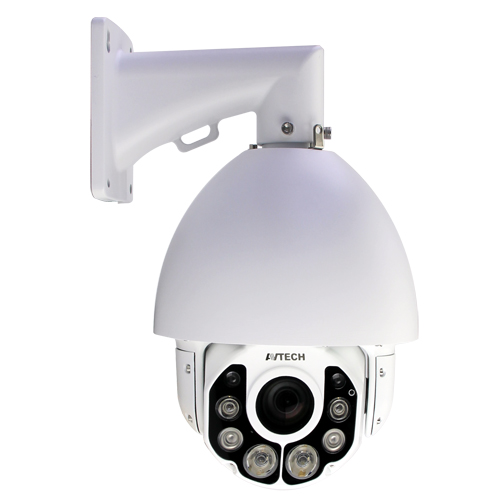
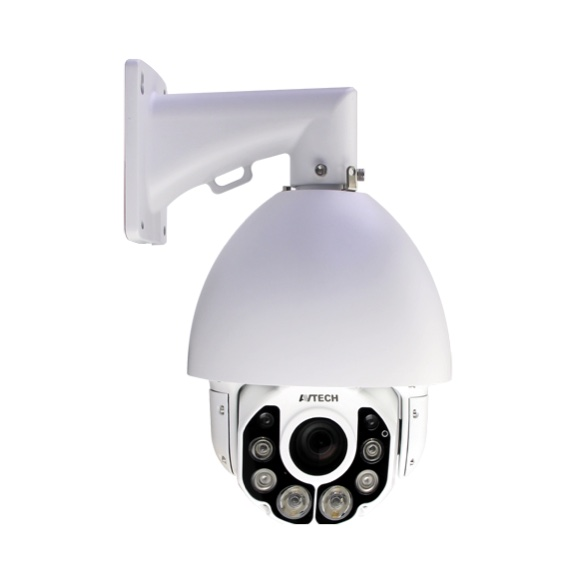
Remove broken and copied product photos; clean up the rest
- Remove 23 photos: 16 copied from gctlsecurity.com (some with GCTL's
  watermark or VARITO branding, some tiny and blotchy), 4 with scene or
  dark/grey backgrounds, and 3 poor cut-outs (jagged edges, cropped
  reflection, blurry). Those products show their line-art icon.
- Re-process the 18 good manufacturer photos: pure white background,
  trimmed and centred in the same square with even margins, saved as
  JPEG (3.8 MB -> 0.7 MB)
- Featured: Chubbsafes Executive fire safe and Virdi AC-2200 replace the
  vault door and uFace800, whose photos were removed
- In-stock rail shows only products with photos
- Card image boxes are a fixed 4:3 height so photo and icon cards line up

Changed region(s): [[0.18, 0.03, 0.84, 0.99]]

diff --git a/index.html b/index.html
@@ -142,7 +142,7 @@ a.eyebrow:hover{border-color:var(--gold-600);background:#F8EBC4}
 .card{scroll-snap-align:start;border:1px solid var(--line);border-radius:6px;background:var(--bg);display:flex;flex-direction:column;overflow:hidden;transition:border-color .15s}
 .card:hover{border-color:var(--gold-600);box-shadow:inset 0 -3px 0 var(--gold)}
 .card .ph{aspect-ratio:4/3;background:var(--surface);display:grid;place-items:center;color:var(--blue);border-bottom:1px solid var(--line);position:relative}
-.card .ph svg{width:46%}
+.card .ph svg{width:34%}
 .stock{position:absolute;top:10px;left:10px;font-size:.75rem;font-weight:650;background:var(--gold);color:#0A2463;padding:3px 8px;border-radius:3px}
 .card .body{padding:16px 16px 18px;display:flex;flex-direction:column;gap:4px;flex:1}
 .card h4{margin:2px 0 0;font-size:1.02rem;font-weight:700;line-height:1.25}
@@ -167,7 +167,7 @@ a.eyebrow:hover{border-color:var(--gold-600);background:#F8EBC4}
 .catcell ul{list-style:none;margin:0;padding:0;color:var(--muted);font-size:.9rem;line-height:1.7}
 .also{margin-top:22px;color:var(--muted);font-size:.95rem}
 .also b{color:var(--head)}
-.card .ph img{width:100%;height:100%;object-fit:contain;padding:12px;background:#fff}
+.card .ph img{position:absolute;inset:0;width:100%;height:100%;object-fit:contain;padding:12px;background:#fff}
 .more [hidden],.more button[hidden]{display:none}
 .more{display:flex;justify-content:center;margin-top:28px}
 .catcell.key{background:var(--blue-100)}
@@ -602,33 +602,33 @@ footer a:hover{text-decoration:underline}
 
     <div class="showcase">
       <article class="feature feature-lg">
-        <div class="ph"><img src="images/products/gunnebo-centurion-dd.webp" alt="Gunnebo Centurion LW-DD vault door" loading="lazy"></div>
+        <div class="ph"><img src="images/products/chubbsafes-executive.jpg" alt="Chubbsafes Executive fireproof safe" loading="lazy"></div>
         <div class="body">
           <span class="cat">Safehouse</span>
-          <h3>Centurion LW-DD vault door</h3>
-          <p>Gunnebo high-security vault door for bank strong rooms, data rooms and residential safe rooms. Supplied with frame and installation.</p>
+          <h3>Chubbsafes Executive fireproof safe</h3>
+          <p>Certified fire safe for paper documents, valuables and data media in offices, bank branches and homes. Supplied and installed by our own team.</p>
           <dl class="specs">
-            <div><dt>Fire rating</dt><dd>120 min</dd></div>
-            <div><dt>Security grade</dt><dd>V&ndash;VI</dd></div>
-            <div><dt>Certification</dt><dd>EN 1143-1</dd></div>
+            <div><dt>Fire rating</dt><dd>60 min</dd></div>
+            <div><dt>Protects</dt><dd>Paper and data</dd></div>
+            <div><dt>Availability</dt><dd>In stock</dd></div>
           </dl>
           <!-- TODO: placeholder sales number in the three "Call for price" links below — replace with the real number -->
           <a class="price" href="tel:+8801XXXXXXXXX"><svg aria-hidden="true"><use href="#g-phone"/></svg>Call for price</a>
-          <button class="btn btn-blue js-quote" data-product="Gunnebo Centurion LW-DD vault door">Request a quote</button>
+          <button class="btn btn-blue js-quote" data-product="Chubbsafes Executive fireproof safe">Request a quote</button>
         </div>
       </article>
       <article class="feature feature-sm">
-        <div class="ph"><img src="images/products/zkteco-uface800.jpg" alt="ZKTeco uFace800 facial access terminal" loading="lazy"></div>
+        <div class="ph"><img src="images/products/virdi-ac2200.jpg" alt="Virdi AC-2200 fingerprint access terminal" loading="lazy"></div>
         <div class="body">
           <span class="cat">Access control</span>
-          <h3>ZKTeco uFace800</h3>
-          <p>Face, fingerprint and card terminal that handles door access and staff attendance on one device.</p>
+          <h3>Virdi AC-2200</h3>
+          <p>Fingerprint and card terminal that handles door access and staff attendance on one device.</p>
           <a class="price" href="tel:+8801XXXXXXXXX"><svg aria-hidden="true"><use href="#g-phone"/></svg>Call for price</a>
-          <button class="btn btn-line js-quote" data-product="ZKTeco uFace800">Request a quote</button>
+          <button class="btn btn-line js-quote" data-product="Virdi AC-2200">Request a quote</button>
         </div>
       </article>
       <article class="feature feature-sm">
-        <div class="ph"><img src="images/products/garrett-pd6500i.png" alt="Garrett PD 6500i walk-through metal detector" loading="lazy"></div>
+        <div class="ph"><img src="images/products/garrett-pd6500i.jpg" alt="Garrett PD 6500i walk-through metal detector" loading="lazy"></div>
         <div class="body">
           <span class="cat">Entrance security</span>
           <h3>Garrett PD 6500i</h3>
@@ -829,19 +829,16 @@ footer a:hover{text-decoration:underline}
   // Descriptions are original. To add a photo, set img to a data: URI or a file path on your own host.
   // [name, brand, category, glyph, description, inStock, img]
   // Safehouse items were originally fictional "Next Shield" branded SKUs with no real image;
-  // swapped for genuine Chubbsafes/Gunnebo products with matching specs (fire rating etc.) so
-  // there's a real manufacturer photo for every row. Swap for Next Shield's own installed work
-  // (photos, brand names) once available.
-  // Image sourcing notes (review before launch):
-  // - Files prefixed "gctl-fallback-" were pulled from gctlsecurity.com because no matching
-  //   product/SKU could be confirmed on the actual manufacturer's own site (either the model
-  //   code doesn't exist there, or the manufacturer has discontinued/delisted it). Replace with
-  //   licensed/manufacturer-confirmed photos before launch, or if flagged for copyright.
+  // swapped for genuine Chubbsafes/Gunnebo products with matching specs (fire rating etc.).
+  // Swap for Next Shield's own installed work (photos, brand names) once available.
+  // Image notes:
+  // - Every photo in images/products is a manufacturer studio shot, cleaned to a pure white
+  //   background and re-framed to the same square with even margins. Add new photos the same way.
+  // - Rows without a 7th field show their line-art glyph. Photos copied from gctlsecurity.com
+  //   (some carried GCTL's watermark), scene/dark-background shots and low-quality cut-outs were
+  //   removed; add manufacturer or Next Shield photos for those rows when available.
   // - VF-30 (Anviz): manufacturer only lists a "VF30 Pro" successor now; photo is of that.
-  // - T60 (Anviz): photo is a lifestyle/install shot from the official T60 Pro flyer, not a studio cutout.
   // - DS-2CE16D0T-IR (Hikvision): manufacturer site now only lists the "-IR(C)" variant; used that photo.
-  // - Addressable 4-loop fire alarm panel (Bosch): FPA-5000 is modular (no single boxed "4-loop" SKU);
-  //   photo is of the MPC-1300-C panel controller module, the main visible unit of that panel family.
   // - UB700 (UNIQSCAN): our spec says "24-zone" but the manufacturer's current page describes this
   //   model as 33-zone — verify the correct zone count before publishing.
   const P = [
@@ -854,46 +851,46 @@ footer a:hover{text-decoration:underline}
     ["Label deactivator pad","NSE systems","retail","deactivator","Deactivates labels at checkout so paid items pass the gate without an alarm.",1],
     ["Hard tag detacher","NSE systems","retail","detacher","Releases hard tags in seconds at the counter, without damaging the garment.",1],
     // Access control & time attendance
-    ["uFace800 facial access terminal","ZKTeco","access","face","Face, fingerprint and card entry with built-in attendance logging.",1,"images/products/zkteco-uface800.jpg"],
-    ["uFace302 biometric attendance terminal","ZKTeco","access","face","Multi-biometric terminal for staff attendance and single-door control.",1,"images/products/zkteco-uface302.jpg"],
+    ["uFace800 facial access terminal","ZKTeco","access","face","Face, fingerprint and card entry with built-in attendance logging.",1],
+    ["uFace302 biometric attendance terminal","ZKTeco","access","face","Multi-biometric terminal for staff attendance and single-door control.",1],
     ["AC-2200 fingerprint access terminal","Virdi","access","finger","Fingerprint and card reader for offices that need access and attendance together.",1,"images/products/virdi-ac2200.jpg"],
-    ["SR-100FP fingerprint slave reader","Virdi","access","reader","Secondary reader that adds fingerprint checks on the exit side of a door.",0,"images/products/virdi-sr100fp.png"],
-    ["FR1200 fingerprint and RFID reader","Granding","access","reader","Weatherproof slave reader for outdoor gates and anti-passback setups.",1,"images/products/gctl-fallback-granding-fr1200.jpg"],
-    ["VF-30 fingerprint and RFID terminal","Anviz","access","finger","Compact fingerprint and card terminal for small offices and shops.",1,"images/products/anviz-vf30.png"],
-    ["T60 fingerprint and RFID controller","Anviz","access","finger","Slim, door-frame-mounted reader for glass and narrow doors.",0,"images/products/anviz-t60.jpg"],
-    ["eNBioAccess-T3 attendance terminal","Nitgen","access","finger","Fingerprint attendance terminal with network reporting.",0,"images/products/gctl-fallback-nitgen-enbioaccess-t3.jpg"],
-    ["BioMini USB fingerprint scanner","Suprema","access","usb","Desktop scanner for enrolling staff fingerprints at a PC.",1,"images/products/gctl-fallback-suprema-biomini.jpg"],
-    ["KR100E RFID external reader","ZKTeco","access","reader","Card reader for adding card entry to an existing controller.",1,"images/products/zkteco-kr100e.png"],
+    ["SR-100FP fingerprint slave reader","Virdi","access","reader","Secondary reader that adds fingerprint checks on the exit side of a door.",0],
+    ["FR1200 fingerprint and RFID reader","Granding","access","reader","Weatherproof slave reader for outdoor gates and anti-passback setups.",1],
+    ["VF-30 fingerprint and RFID terminal","Anviz","access","finger","Compact fingerprint and card terminal for small offices and shops.",1,"images/products/anviz-vf30.jpg"],
+    ["T60 fingerprint and RFID controller","Anviz","access","finger","Slim, door-frame-mounted reader for glass and narrow doors.",0],
+    ["eNBioAccess-T3 attendance terminal","Nitgen","access","finger","Fingerprint attendance terminal with network reporting.",0],
+    ["BioMini USB fingerprint scanner","Suprema","access","usb","Desktop scanner for enrolling staff fingerprints at a PC.",1],
+    ["KR100E RFID external reader","ZKTeco","access","reader","Card reader for adding card entry to an existing controller.",1,"images/products/zkteco-kr100e.jpg"],
     // CCTV
     ["AVZ592 2MP 20× PTZ camera","AVTECH","cctv","ptz","Pan, tilt and 20× zoom camera for car parks, yards and large lobbies.",0,"images/products/avtech-avz592.jpg"],
     ["AVH308EA 8-channel HD recorder","AVTECH","cctv","nvr","Records and plays back up to eight HD cameras from one unit.",1,"images/products/avtech-avh308ea.jpg"],
     ["DS-2CE16D0T-IR 2MP bullet camera","Hikvision","cctv","bullet","Day-night 1080p bullet camera with infrared for dark areas.",1,"images/products/hikvision-ds2ce16d0tir.jpg"],
-    ["DS-2CE16D5T-IT5 2MP IR bullet camera","Hikvision","cctv","bullet","Long-range infrared bullet camera for perimeters and boundary walls.",1,"images/products/gctl-fallback-hikvision-ds2ce16d5t-it5.jpg"],
-    ["DS-2CE16D5T-AVFIT3 varifocal bullet camera","Hikvision","cctv","bullet","Adjustable zoom lens so one camera can cover a wide or narrow field.",0,"images/products/gctl-fallback-hikvision-ds2ce16d5t-avfit3.jpg"],
-    ["DS-2AE4123TI-D IR PTZ dome","Hikvision","cctv","ptz","Compact PTZ dome with infrared for indoor and covered outdoor areas.",0,"images/products/gctl-fallback-hikvision-ds2ae4123ti-d.jpg"],
-    ["Home and shop CCTV kit","Varito","cctv","bullet","Ready-to-install camera set for homes and small retail shops.",1,"images/products/gctl-fallback-varito-cctv-home-shop-kit.jpg"],
+    ["DS-2CE16D5T-IT5 2MP IR bullet camera","Hikvision","cctv","bullet","Long-range infrared bullet camera for perimeters and boundary walls.",1],
+    ["DS-2CE16D5T-AVFIT3 varifocal bullet camera","Hikvision","cctv","bullet","Adjustable zoom lens so one camera can cover a wide or narrow field.",0],
+    ["DS-2AE4123TI-D IR PTZ dome","Hikvision","cctv","ptz","Compact PTZ dome with infrared for indoor and covered outdoor areas.",0],
+    ["Home and shop CCTV kit","Varito","cctv","bullet","Ready-to-install camera set for homes and small retail shops.",1],
     // Entrance security
-    ["PD 6500i 33-zone walk-through detector","Garrett","entrance","arch","Walk-through detector that shows exactly which zone detected metal.",1,"images/products/garrett-pd6500i.png"],
-    ["UB800 33-zone walk-through detector","UNIQSCAN","entrance","arch","High-zone archway detector for airports, courts and embassies.",0,"images/products/gctl-fallback-uniqscan-ub800.jpg"],
+    ["PD 6500i 33-zone walk-through detector","Garrett","entrance","arch","Walk-through detector that shows exactly which zone detected metal.",1,"images/products/garrett-pd6500i.jpg"],
+    ["UB800 33-zone walk-through detector","UNIQSCAN","entrance","arch","High-zone archway detector for airports, courts and embassies.",0],
     ["UB700 24-zone walk-through detector","UNIQSCAN","entrance","arch","24-zone archway for corporate lobbies and event entrances.",1,"images/products/uniqscan-ub700.jpg"],
     ["UB600 18-zone walk-through detector","UNIQSCAN","entrance","arch","18-zone archway for factories, schools and hotels.",1,"images/products/uniqscan-ub600.jpg"],
     ["UM500 rainproof walk-through detector","UNIQSCAN","entrance","arch","Weather-resistant archway for uncovered gates and outdoor events.",0,"images/products/uniqscan-um500.jpg"],
-    ["VMD-3000 18-zone archway detector","Varito","entrance","arch","18-zone archway detector for everyday entrance screening.",1,"images/products/gctl-fallback-varito-vmd-3000.jpg"],
-    ["Guide hand-held metal detector","Garrett","entrance","wand","Hand-held wand for secondary checks after an archway alarm.",1,"images/products/garrett-guide.png"],
-    ["SF5030C X-ray baggage scanner","Varito","entrance","xray","Screens bags and parcels at reception desks and mailrooms.",0,"images/products/gctl-fallback-varito-sf5030c.jpg"],
-    ["X-ray baggage scanner","Varito","entrance","xray","Conveyor X-ray scanner for high-volume baggage screening.",0,"images/products/gctl-fallback-varito-xray-generic.jpg"],
+    ["VMD-3000 18-zone archway detector","Varito","entrance","arch","18-zone archway detector for everyday entrance screening.",1],
+    ["Guide hand-held metal detector","Garrett","entrance","wand","Hand-held wand for secondary checks after an archway alarm.",1,"images/products/garrett-guide.jpg"],
+    ["SF5030C X-ray baggage scanner","Varito","entrance","xray","Screens bags and parcels at reception desks and mailrooms.",0],
+    ["X-ray baggage scanner","Varito","entrance","xray","Conveyor X-ray scanner for high-volume baggage screening.",0],
     // Vehicle control
-    ["VCB-DC4F folding-arm barrier","Varito","vehicle","barrier","Folding boom for car parks with low ceilings.",1,"images/products/gctl-fallback-varito-vcb-dc4f.jpg"],
-    ["VW-DC503 car park barrier gate","Varito","vehicle","barrier","Straight-arm boom barrier for residential and office car parks.",1,"images/products/gctl-fallback-varito-vw-dc503.jpg"],
-    ["VW-DCV6 two-way boom barrier","Varito","vehicle","barrier","Dual-arm barrier that controls entry and exit lanes together.",0,"images/products/gctl-fallback-varito-vw-dcv6.jpg"],
-    ["VW-FA658 fence-arm barrier","Varito","vehicle","barrier","Barrier with a hanging fence skirt that stops people slipping under.",0,"images/products/gctl-fallback-varito-vw-fa658.jpg"],
-    ["BG658-FE fence-arm barrier","MAG","vehicle","barrier","Premium fence-arm barrier for hotels and corporate entrances.",0,"images/products/mag-bg658fe.webp"],
+    ["VCB-DC4F folding-arm barrier","Varito","vehicle","barrier","Folding boom for car parks with low ceilings.",1],
+    ["VW-DC503 car park barrier gate","Varito","vehicle","barrier","Straight-arm boom barrier for residential and office car parks.",1],
+    ["VW-DCV6 two-way boom barrier","Varito","vehicle","barrier","Dual-arm barrier that controls entry and exit lanes together.",0],
+    ["VW-FA658 fence-arm barrier","Varito","vehicle","barrier","Barrier with a hanging fence skirt that stops people slipping under.",0],
+    ["BG658-FE fence-arm barrier","MAG","vehicle","barrier","Premium fence-arm barrier for hotels and corporate entrances.",0,"images/products/mag-bg658fe.jpg"],
     ["Road blocker","NSE supply","vehicle","blocker","Rising wedge that physically stops unauthorised vehicles.",0],
     ["Tyre killer spikes","NSE supply","vehicle","spikes","One-way spike strip that disables vehicles entering the wrong way.",0],
     ["Parking guidance system","NSE supply","vehicle","signage","Bay sensors and signs that guide drivers to free spaces.",0],
     // Fire alarm
     ["4-zone conventional fire alarm panel","Bosch","fire","alarm","Control panel for small buildings split into up to four zones.",1,"images/products/bosch-fpc500-4zone.jpg"],
-    ["Addressable 4-loop fire alarm panel","Bosch","fire","alarm","Pinpoints each device's location across large, multi-floor sites.",0,"images/products/bosch-fpa5000-mpc1300c.jpg"],
+    ["Addressable 4-loop fire alarm panel","Bosch","fire","alarm","Pinpoints each device's location across large, multi-floor sites.",0],
     ["Addressable smoke and heat detector","Bosch","fire","fire","Combined detector that reports its exact address to the panel.",1,"images/products/bosch-fap425-ot.jpg"],
     ["Addressable manual call point","Bosch","fire","callpt","Break-glass point with built-in isolators for addressable loops.",1,"images/products/bosch-fmc420rw.jpg"],
     ["Addressable loop sounder","NSE supply","fire","alarm","Loop-powered siren with built-in isolators.",1],
@@ -901,11 +898,11 @@ footer a:hover{text-decoration:underline}
     ["Dry powder fire extinguisher, 3 kg","NSE supply","fire","ext","Compact extinguisher for vehicles, kitchens and small offices.",1],
     ["Modular automatic extinguisher, 6 kg","NSE supply","fire","ext","Ceiling-mounted unit that discharges on its own when heat rises.",0],
     // Safehouse (real vault/safe manufacturer products, supplied and installed by Next Shield)
-    ["Centurion DD vault door","Gunnebo","safehouse","vault","High-security vault door for bank strong rooms, rated to 120 minutes fire resistance.",0,"images/products/gunnebo-centurion-dd.webp"],
-    ["Executive fireproof safe","Chubbsafes","safehouse","safe","Certified 60-minute fire safe for paper documents, valuables and data media.",1,"images/products/chubbsafes-executive.png"],
-    ["Omega deposit safe","Chubbsafes","safehouse","safe","Drop-slot deposit safe with anti-fishing device for tills and after-hours deposits.",0,"images/products/chubbsafes-omega-deposit.webp"],
-    ["ModulGuard SR T2 strong room panels","Gunnebo","safehouse","room","Modular bolted steel panels that turn an existing room into a certified strong room.",0,"images/products/gunnebo-modulguard-srt2.webp"],
-    ["DPC document protection cabinet","Chubbsafes","safehouse","safe","120-minute fire-rated cabinet for high-volume records storage in banks and offices.",0,"images/products/chubbsafes-dpc.png"]
+    ["Centurion DD vault door","Gunnebo","safehouse","vault","High-security vault door for bank strong rooms, rated to 120 minutes fire resistance.",0],
+    ["Executive fireproof safe","Chubbsafes","safehouse","safe","Certified 60-minute fire safe for paper documents, valuables and data media.",1,"images/products/chubbsafes-executive.jpg"],
+    ["Omega deposit safe","Chubbsafes","safehouse","safe","Drop-slot deposit safe with anti-fishing device for tills and after-hours deposits.",0,"images/products/chubbsafes-omega-deposit.jpg"],
+    ["ModulGuard SR T2 strong room panels","Gunnebo","safehouse","room","Modular bolted steel panels that turn an existing room into a certified strong room.",0],
+    ["DPC document protection cabinet","Chubbsafes","safehouse","safe","120-minute fire-rated cabinet for high-volume records storage in banks and offices.",0,"images/products/chubbsafes-dpc.jpg"]
   ];
   // Prices are never shown: every product says "Call for price".
   // TODO: placeholder sales number — replace with the real number (also used in the top bar, quote section and footer)
@@ -930,9 +927,9 @@ footer a:hover{text-decoration:underline}
   // Retail section: the retail anti-theft line
   document.getElementById('retailGrid').innerHTML = P.filter(p=>p[2]==='retail').map(p=>card(p,true)).join('');
 
-  // Rail: in-stock picks across the other categories (retail has its own section above)
+  // Rail: in-stock picks with photos across the other categories (retail has its own section above)
   const rail = document.getElementById('rail');
-  rail.innerHTML = P.filter(p=>p[5] && p[2]!=='retail').slice(0,14).map(p=>card(p,true)).join('');
+  rail.innerHTML = P.filter(p=>p[5] && p[6] && p[2]!=='retail').slice(0,14).map(p=>card(p,true)).join('');
   const prev = document.getElementById('railPrev'), next = document.getElementById('railNext');
   const step = () => (rail.querySelector('.card')?.offsetWidth || 260) + 16;
   prev.onclick = () => rail.scrollBy({left:-step()*2,behavior:'smooth'});
